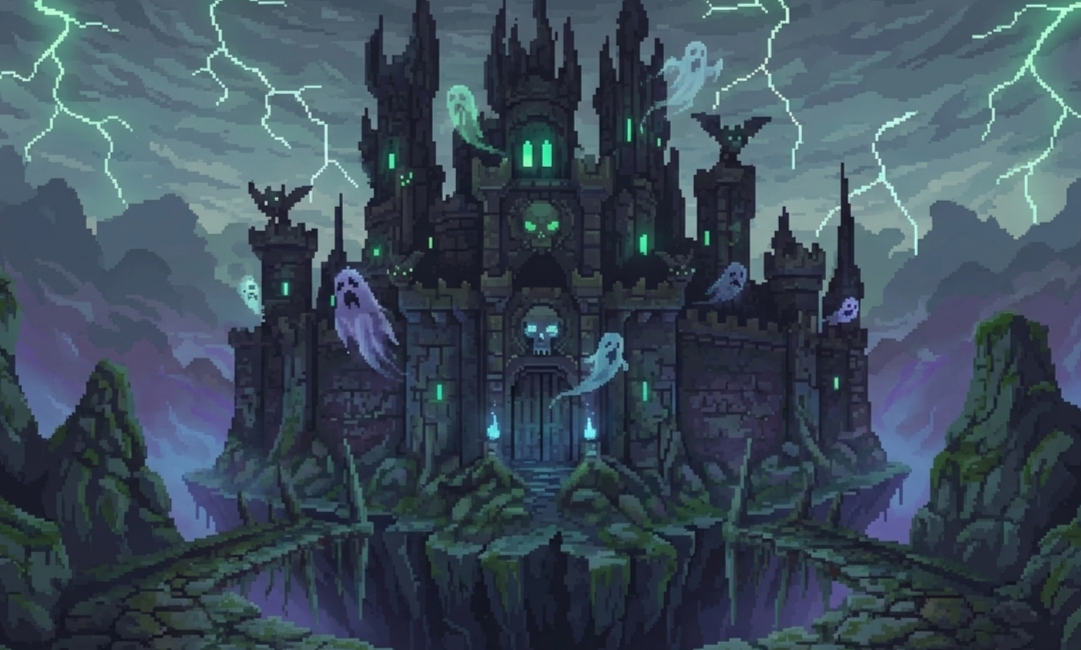
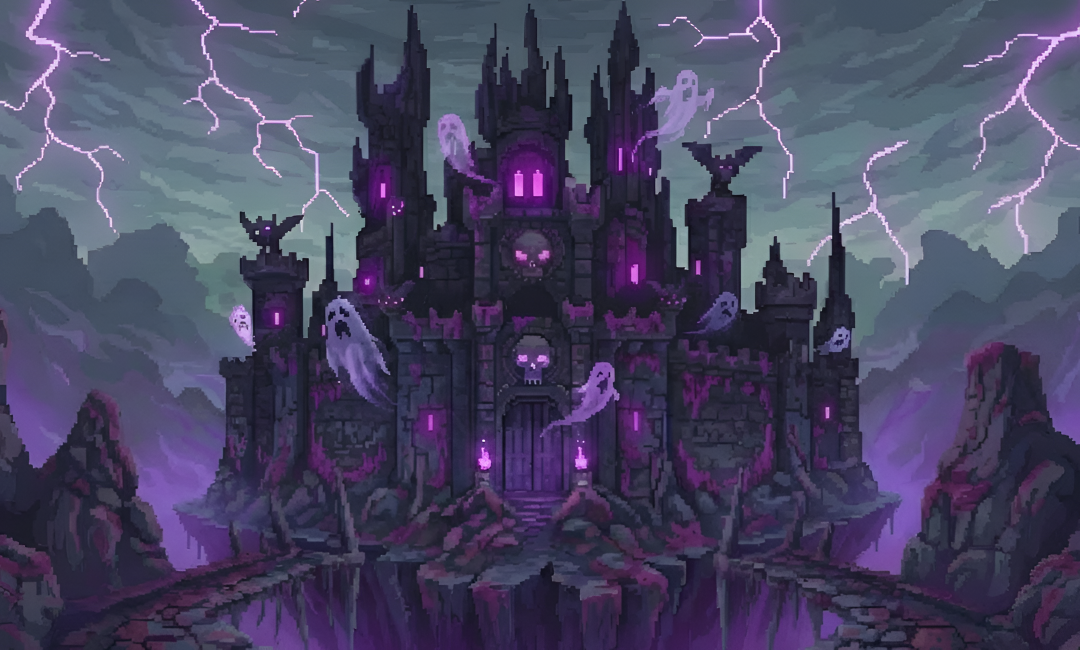
uoiyxv

diff --git a/src/main/resources/org/example/ProgettoUIDFinal/style.css b/src/main/resources/org/example/ProgettoUIDFinal/style.css
@@ -57,6 +57,16 @@
     -fx-font-size: 24px
 }
 
+.bossLabel {
+    -fx-font-size: 40px;
+    -fx-text-fill: #ffffff;
+}
+
+.recommendedLevelLabel {
+    -fx-font-size: 18px;
+    -fx-text-fill: #ffffff;
+}
+
 .equipmentLabel{
     -fx-text-fill: #FFFFFF;
 }

diff --git a/src/main/java/org/example/ProgettoUIDFinal/model/BossModel.java b/src/main/java/org/example/ProgettoUIDFinal/model/BossModel.java
@@ -17,10 +17,11 @@ public class BossModel {
 
     private final ObjectProperty<Image> bossSprite = new SimpleObjectProperty<>();
     private final ObjectProperty<Image> background = new SimpleObjectProperty<>();
+    private final ObjectProperty<Image> arena = new SimpleObjectProperty<>();
 
     private String recommendedLevel;
 
-    public BossModel(String bossName, int bossHp, int bossAtk, int bossDef, int bossVel, String bossSpritePath, String bgPath, String recommendedLevel) {
+    public BossModel(String bossName, int bossHp, int bossAtk, int bossDef, int bossVel, String bossSpritePath, String bgPath, String arenaPath, String recommendedLevel) {
         this.bossName.set(bossName);
         this.bossHp.set(bossHp);
         this.bossAtk.set(bossAtk);
@@ -31,6 +32,7 @@ public class BossModel {
 
         setBossSpriteImage(bossSpritePath);
         setBackgroundImage(bgPath);
+        setArenaImage(arenaPath);
     }
 
     public StringProperty bossNameProperty() { return bossName; }
@@ -57,32 +59,36 @@ public class BossModel {
 
     public ObjectProperty<Image> bossSpriteProperty() { return bossSprite; }
     public Image getBossSprite() { return bossSprite.get(); }
-
-    //mette lo sprite del boss
     public void setBossSpriteImage(String url) {
-        try {
-            if (url != null && !url.isEmpty()) {
-                this.bossSprite.set(new Image(getClass().getResourceAsStream(url)));
-            }
-        } catch (Exception e) {
-            System.err.println("Impossibile caricare avatar: " + url);
-        }
+        loadImage(bossSprite, url, "Impossibile caricare avatar");
     }
 
     public ObjectProperty<Image> backgroundProperty() { return background; }
     public Image getBackground() { return background.get(); }
-
     public void setBackgroundImage(String url) {
-        try {
-            if (url != null && !url.isEmpty()) {
-                url = url.replace("\"", "").trim();
-                this.background.set(new Image(getClass().getResourceAsStream(url)));
-            }
-        } catch (Exception e) {
-            System.err.println("Impossibile caricare sfondo boss: " + url);
-        }
+        loadImage(background, url, "Impossibile caricare sfondo boss");
+    }
+
+    public ObjectProperty<Image> arenaProperty() { return arena; }
+    public Image getArena() { return arena.get(); }
+    public void setArenaImage(String url) {
+        loadImage(arena, url, "Impossibile caricare arena boss");
     }
 
     public String getRecommendedLevel() { return recommendedLevel; }
     public void setRecommendedLevel(String recommendedLevel) {this.recommendedLevel = recommendedLevel;}
+
+    private void loadImage(ObjectProperty<Image> property, String url, String errorMsg) {
+        try {
+            if (url != null && !url.isEmpty()) {
+                url = url.replace("\"", "").trim();
+                InputStream is = getClass().getResourceAsStream(url);
+                if (is != null) {
+                    property.set(new Image(is));
+                }
+            }
+        } catch (Exception e) {
+            System.err.println(errorMsg + ": " + url);
+        }
+    }
 }

diff --git a/src/main/java/org/example/ProgettoUIDFinal/model/GameRepository.java b/src/main/java/org/example/ProgettoUIDFinal/model/GameRepository.java
@@ -34,7 +34,7 @@ public class GameRepository {
 
     private static final LocalDate GAME_EPOCH = LocalDate.of(2025, 12, 1);
     private static final int TOTAL_BOSS_TIERS = 3;
-    private static final int DAYS_PER_BOSS = 16;
+    private static final int DAYS_PER_BOSS = 21;
     private int currentBossTier = 0;
 
 
@@ -301,6 +301,7 @@ public class GameRepository {
         int hp = 100, atk = 20, def = 10, vel = 5;
         String spritePath = null;
         String bgPath = null;
+        String arenaPath = null;
         String recommendedLevel = "1";
 
         if (bossProps != null) {
@@ -319,9 +320,12 @@ public class GameRepository {
             bgPath = bossProps.getProperty("boss.bg" + suffix);
             if (bgPath != null) bgPath = bgPath.replace("\"", "").trim();
 
+            arenaPath = bossProps.getProperty("boss.arena" + suffix);
+            if (arenaPath != null) arenaPath = arenaPath.replace("\"", "").trim();
+
             recommendedLevel = bossProps.getProperty("boss.rlevel" + suffix, "1").replace("\"", "").trim();
         }
-        return new BossModel(name, hp, atk, def, vel, spritePath, bgPath, recommendedLevel);
+        return new BossModel(name, hp, atk, def, vel, spritePath, bgPath, arenaPath, recommendedLevel);
     }
 
     public boolean checkForBossUpdate() {

diff --git a/src/main/java/org/example/ProgettoUIDFinal/bossBattleController.java b/src/main/java/org/example/ProgettoUIDFinal/bossBattleController.java
@@ -36,6 +36,7 @@ public class bossBattleController implements Initializable {
     @FXML private ImageView shieldLayer;
 
     @FXML private ImageView bossSprite;
+    @FXML private ImageView arenaImage;
     @FXML private ProgressBar playerHealthBar, bossHealthBar;
 
     @FXML private ImageView resultImageView;
@@ -88,6 +89,7 @@ public class bossBattleController implements Initializable {
         boss = GameRepository.getInstance().getBoss();
 
         if (bossSprite != null) bossSprite.imageProperty().bind(boss.bossSpriteProperty());
+        if (arenaImage != null) arenaImage.imageProperty().bind(boss.arenaProperty());
 
         maxHpPlayer = player.getHp();
         maxHpBoss = boss.getBossHp();
